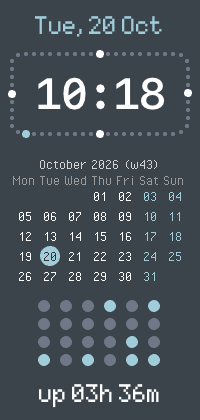
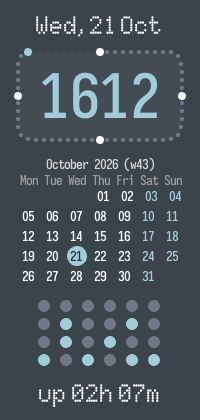
some changes

diff --git a/rcalendar/rcalendar.c b/rcalendar/rcalendar.c
@@ -14,7 +14,7 @@
 // NORD colors
 #define bgColor CLITERAL(Color){10, 20, 30, 248}
 #define accentColor CLITERAL(Color){ 136, 192, 208, 255 }
-// Color accentColor = SKYBLUE; //CLITERAL(Color){ 198, 208, 245, 255 }
+#define bgClockColor CLITERAL(Color){ 20, 30, 40, 255 }
 
 // BCD dots color
 #define inner_Color CLITERAL(Color){ 136, 192, 208, 255}
@@ -207,8 +207,6 @@ while (!WindowShouldClose()) {
 // 
 		BeginDrawing();
 		ClearBackground (bgColor);
-
-        //DrawRectangleLines(0,0,screenWidth,screenHeight, outer_Color);
 		
         time_t now = time (NULL);
 		struct tm *t = localtime(&now);
@@ -221,14 +219,18 @@ while (!WindowShouldClose()) {
 		Vector2 datePos = MeasureTextEx(textFnt, buffer, textFnt.baseSize, 0);
 		DrawTextEx(textFnt, TextFormat("%s", buffer), (Vector2){(screenWidth-datePos.x)/2, 12}, textFnt.baseSize,0, WHITE);
 
+        float roundness = (cornerRadius * 2.0f) / clockRect.height;
+        DrawRectangleRounded(clockRect, roundness,24,bgClockColor);
+
             // Disegno dei 60 secondi
             for (int i = 0; i < 60; i++) 
             {
                 float progress = (float)i / 60.0f;
                 PathPoint pt = GetRoundedRectPathPoint(clockRect, cornerRadius, progress);
                 
+                // defaul marker
                 float thickness = 2.0f; // diametro punti secondi
-				Color markerColor = outer_Color; 
+				Color markerColor = bgColor; 
                 
                 Vector2 drawNormal;
                 float dirX = center.x - pt.position.x;
@@ -241,11 +243,15 @@ while (!WindowShouldClose()) {
                 } 
                 else drawNormal = pt.normal;
 
-                if (i % 15 == 0) // marker ogni 15 min in evidenza con diametro e colore diversi
-                {
-                    thickness = 4.0f;
-                    markerColor = WHITE; 
-                }
+                if (i < t->tm_sec) {
+                    markerColor = outer_Color;
+
+                        if (i % 15 == 0) // marker ogni 15 min in evidenza con diametro e colore diversi
+                        {
+                            thickness = 4.0f;
+                            markerColor = WHITE; 
+                        }
+                    }
 
                 // disegna secondo che avanza
 				if (i == t->tm_sec) {
@@ -254,7 +260,7 @@ while (!WindowShouldClose()) {
 				}
 
                 // distanza dal bordo dei marker
-                float edgeOffset = -1.0f;//cambiando offset cambia anche problema marker con andamento a onda
+                float edgeOffset = 0.0f;//cambiando offset cambia anche problema marker con andamento a onda
                 Vector2 startPoint = {
                     pt.position.x + drawNormal.x * edgeOffset,
                     pt.position.y + drawNormal.y * edgeOffset

diff --git a/simplayer/simplayer.c b/simplayer/simplayer.c
@@ -10,7 +10,7 @@
 #define TOOL_NAME               "Simple Music Player"
 #define TOOL_SHORT_NAME         "simplayer"
 #define TOOL_COMMENT            "Simple but modern currMusic player written in C99 using Raylib - Play MP3 and OGG file"
-#define TOOL_VERSION            "2.7.6"
+#define TOOL_VERSION            "2.7.8"
 
 #include <stdio.h>
 #include <raylib.h>
@@ -979,7 +979,7 @@ while (!WindowShouldClose())
 						else barColor = darkenColor(accentColor,0.56f);
 						
 						// dimmed bar color
-						dimColor = (Color){ barColor.r / 2.4f, barColor.g / 2.4f, barColor.b / 2.4f, 255 };
+						dimColor = BLANK; //(Color){ barColor.r / 2.4f, barColor.g / 2.4f, barColor.b / 2.4f, 255 };
 
 						for (int j = 0; j < maxSegments; j++) {
 							float segYPos = baseYPos - (j * (segmentHeight + segmentGap)) - segmentHeight;
@@ -992,7 +992,7 @@ while (!WindowShouldClose())
 							bool drawPeakSegment = (j == peakSegment);
 							
 							//DrawLine(xPos, segYPos-1, xPos + (barWidth - barSpacing), segYPos-6, (drawActiveSegment || drawPeakSegment) ? dimColor:darkenColor(dimColor,0.80f));
-							DrawLine(xPos, segYPos, xPos + (barWidth - barSpacing), segYPos-5, (drawActiveSegment || drawPeakSegment) ? barColor:dimColor);
+							DrawLine(xPos, segYPos, xPos + (barWidth - barSpacing), segYPos-4, (drawActiveSegment || drawPeakSegment) ? barColor:dimColor);
 						 }
 					}
 		EndScissorMode();
